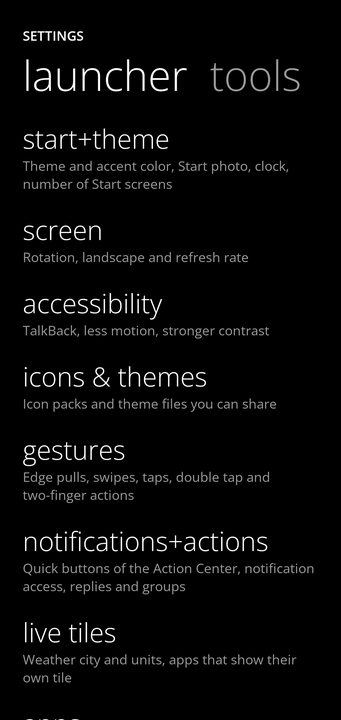
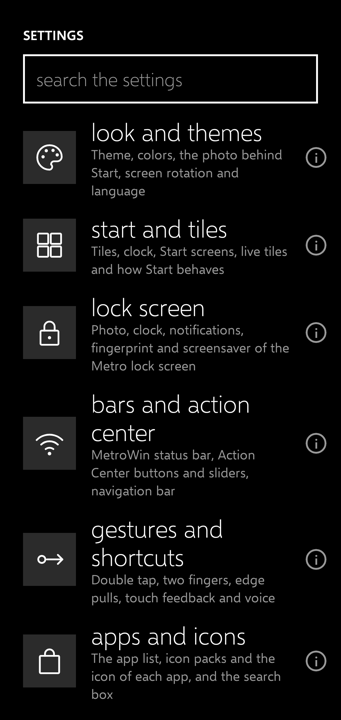
Docs: the settings by category, the 25-page tutorial and the new menu paths
DOCUMENTAZIONE.md describes the thirteen categories, the infobox, "advanced", the map, the tutorial pages and their links, and names the
new paths wherever a feature pointed to an old menu. Both READMEs name the new path to the version and describe the settings and the tutorial.
The picture of the settings home is the new one.

diff --git a/docs/DOCUMENTAZIONE.md b/docs/DOCUMENTAZIONE.md
@@ -85,19 +85,35 @@ grande in minuscolo con il colore d'accento, un quadrato con il glifo). Ogni pag
 funzione ha bisogno di un permesso, lo chiede **lì**, con un pulsante, e dice "consentito" quando c'è: niente viene chiesto in anticipo e
 niente è obbligatorio. Si va avanti con il pulsante o con uno swipe, si esce con "salta", Indietro torna alla pagina prima.
 
-| Pagina | Cosa spiega | Cosa chiede |
-|---|---|---|
-| benvenuto | come si usa il giro | — |
-| rendilo la tua home | perché serve essere l'app Home | **app Home** (dialogo di Android 10+, altrimenti le impostazioni dell'app Home) |
-| la tua schermata start | tocca, tieni premuto, cartelle, tile piccoli affiancati, più schermate, "+" | — |
-| live tile | tile che girano e i loro stili | **foto**, **calendario**, **contatti**, **cronologia chiamate** (uno per uno) |
-| meteo | il tile del meteo e dove si sceglie la città | **posizione** |
-| tutte le tue app | jump list, ricerca, menu, voce | **microfono** |
-| action center | tirata dal bordo, pulsanti, notifiche, risposta e gruppi | **accesso alle notifiche** (pagina di Android) |
-| il tuo aspetto | i tre temi e i colori | — |
-| gesti | bordi, doppio tocco, due dita, Indietro | **servizio di blocco** (accessibilità, facoltativo) |
-| tienilo attivo | perché Android chiude le app e come evitarlo; che stare attivo non costa batteria | **nessuna ottimizzazione della batteria**; e, sui telefoni che hanno un elenco "avvio automatico", di aggiungerci il launcher |
-| rendilo tuo | tutte le sezioni delle impostazioni | — |
+| Pagina | Cosa spiega | Cosa chiede | Impostazione che apre |
+|---|---|---|---|
+| benvenuto | come si usa il giro e come rivederlo | — | — |
+| rendilo la tua home | perché serve essere l'app Home | **app Home** (dialogo di Android 10+, altrimenti le impostazioni dell'app Home) | — |
+| la tua schermata start | tocca, tieni premuto, cartelle, tile piccoli affiancati, "+" | — | start e tile › schermata start |
+| cartelle e gruppi | cartelle (trascina, scelta multipla), gruppi di tile piccoli, titoli dei gruppi | — | start e tile › schermata start |
+| schermate e disposizioni | fino a tre schermate Start, disposizioni con nome e orario, annulla, blocca, Start più in basso | — | start e tile › schermata start |
+| live tile | tile che girano e i loro stili, contenuti delle altre app | **foto**, **calendario**, **contatti**, **cronologia chiamate** (uno per uno) | start e tile › live tile |
+| il tile informativo | le facce (ora, evento, sveglia, foto, batteria, meteo), ordine intelligente, ritmo, fuso, album, più tile | — | — (si cambia dal tile) |
+| meteo | il tile del meteo e dove si sceglie la città | **posizione** | start e tile › live tile |
+| tutte le tue app | jump list, menu, ricerca | — | app e icone › lista app |
+| ricerca e risposte | dove cerca, risposte rapide, operatori, scheda Oggi | — | app e icone › ricerca |
+| icone e icon pack | forma, vetro, icon pack, icona di una sola app | — | app e icone › icone |
+| parla al telefono | comandi vocali, riconoscimento sul telefono, chiamata | **microfono** | gesti e scorciatoie › voce |
+| app dentro il launcher | le mini app, opzioni, colore d'accento | — | mini app |
+| chiamate e due SIM | tastierino, scelta della SIM, segreteria, registro | — | — (si cambia nell'app) |
+| action center | tirata dal bordo, pulsanti, notifiche, risposta e gruppi | **accesso alle notifiche** (pagina di Android) | barre e action center › action center |
+| le tue notifiche | risposta, filtri, banner, app per app, cosa viene letto | — | notifiche |
+| barra di stato e pulsanti | barra di stato e pulsanti MetroWin, barre nei giochi, servizio di accessibilità | — | barre e action center › barra di stato |
+| gesti | bordi, doppio tocco, due dita, Indietro | **servizio di blocco** (accessibilità, facoltativo) | gesti e scorciatoie › gesti |
+| la schermata di blocco Metro | foto, orologio, anteprima, salvaschermo, impronta | — | schermata di blocco |
+| il tuo aspetto | i tre temi e i colori | — | aspetto e temi › tema e colori |
+| più facile da leggere | testo, movimento, contrasto, TalkBack, tastiera | — | accessibilità |
+| tienilo al sicuro | modalità sicura per le banche, app bloccate, angolo bambini, testo dei messaggi sui tile | — | privacy e sicurezza › protezione |
+| backup e sincronizzazione | file o cartella, ripristino, sync cifrata, profili, elenco delle app | — | backup e profili › backup+sync |
+| tienilo attivo | perché Android chiude le app e come evitarlo; che stare attivo non costa batteria | **nessuna ottimizzazione della batteria**; e, sui telefoni che hanno un elenco "avvio automatico", di aggiungerci il launcher | batteria |
+| rendilo tuo | le tredici categorie, la "i", la ricerca, il pivot, "avanzate" | — | la home delle impostazioni |
+
+Sono **25 pagine**, in ordine di tema (primi passi, Start, app e ricerca, mini app, controllo del telefono, aspetto, sicurezza e impostazioni). Con tante pagine i puntini non ci stanno: in basso c'è un contatore ("3 di 25"). Ogni pagina che ha un'impostazione dice **dove sta** (*categoria › pagina*) e ha un pulsante che la apre; il giro aspetta dov'era e **torna alla stessa pagina** quando chiudi le impostazioni. I testi sono nelle sei lingue (en, it, de, es, fr, pt) in `strings.xml` e `strings_settings_info.xml`, e `TutorialTest` controlla che ogni pagina esista in tutte.
 
 | Benvenuto | Live tile e permessi | Tienilo attivo |
 |---|---|---|
@@ -105,7 +121,7 @@ niente è obbligatorio. Si va avanti con il pulsante o con uno swipe, si esce co
 
 Quello che si concede nelle impostazioni di Android (home, notifiche, accessibilità, batteria) viene riletto quando si torna al
 launcher, e il pulsante diventa "consentito". Un permesso che Android non chiede più (negato due volte) fa diventare il pulsante
-"apri impostazioni", che porta alla pagina dell'app. Il giro si rivede da *impostazioni → strumenti → informazioni → rivedi il tutorial* (o cercando "tutorial" nella casella delle impostazioni).
+"apri impostazioni", che porta alla pagina dell'app. Il giro si rivede da *informazioni → mostra di nuovo il tutorial* (o cercando "tutorial" nella casella delle impostazioni).
 
 ## Cosa c'è
 
@@ -174,7 +190,7 @@ tocco li cambierebbe), i contatti, le impostazioni di Android (anche in italiano
   le impostazioni o l'Action Center, andare alla lista app, accendere la torcia, aprire la fotocamera, **parlare**,
   cercare o **aprire le app recenti**. **Suono e vibrazione** al tocco, facoltativi (un click e una vibrazione del launcher, che non dipendono dagli interruttori di Android).
 - **App recenti subito**: l'azione *apri le app recenti* (come gesto, come pulsante tra i toggle dell'Action Center e come
-  **tile delle Impostazioni rapide**, che si aggiunge dalla pagina *gesti* e funziona da qualsiasi app) usa lo stesso servizio
+  **tile delle Impostazioni rapide**, che si aggiunge da *gesti e scorciatoie → gesti* e funziona da qualsiasi app) usa lo stesso servizio
   di accessibilità del blocco schermo (`GLOBAL_ACTION_RECENTS`), che non legge nulla e non chiede eventi: si apre al tocco, senza
   gesto da tenere. **Lo swipe di Android** (su e tieni) **non è del launcher**: lo gestisce il sistema, e con un launcher che non
   è quello del telefono può avere un'attesa che da qui non si può togliere (vedi *Note e limiti*).
@@ -186,7 +202,7 @@ tocco li cambierebbe), i contatti, le impostazioni di Android (anche in italiano
 Quattro pulsanti rapidi a scelta (sugli altri otto si apre il resto), notifiche che si scartano a destra o tutte insieme,
 **risposta rapida** dai messaggi a cui l'app permette di rispondere, **raggruppamento per app** (una riga che si apre; scorrerla via
 le scarta tutte). I pulsanti **Wi-Fi** e **Bluetooth** dicono sotto l'icona la **rete** e il **dispositivo** a cui sei collegato (il Bluetooth: «Cuffie +1» se sono due); con un **tocco lungo** si apre sotto i pulsanti la lista delle **reti Wi-Fi intorno a te** (la tua in cima, con il segnale) o dei **dispositivi Bluetooth**, i connessi prima e poi quelli abbinati ma scollegati; un tocco sul titolo la chiude, *impostazioni* apre il pannello di Android. Android mostra i nomi solo con l'accesso alla **posizione** (Wi-Fi, e la posizione accesa) e ai **dispositivi nelle vicinanze** (Bluetooth, da Android 12): la lista lo dice e ha il pulsante per darlo. Il **banner Metro** compare anche **sopra le altre app** quando il launcher non è sullo schermo, se lo accendi
-(*notifiche+azioni → banner sopra le altre app*, spento di base) e consenti «Mostra sopra altre app»: non sul blocco schermo, non per le notifiche
+(*notifiche → banner sopra le altre app*, spento di base) e consenti «Mostra sopra altre app»: non sul blocco schermo, non per le notifiche
 silenziose, non quando Non disturbare le blocca, e per le app che scegli con l'interruttore *banner* di ognuna. Il banner di Android compare comunque, a meno che accenda *nascondi la notifica di Android* (spento di base): quando compare il banner Metro, la notifica
 di Android viene tolta e resta nell'Action Center finché non la scarti (Android la mostra per un istante e il suono è dell'app; l'app viene avvisata che
 è stata scartata). Il banner si mostra a ogni nuovo messaggio di una chat, non solo al primo, e la riga di una chat è il suo ultimo messaggio.
@@ -196,7 +212,7 @@ dello schermo, su una striscia sottile di 20 dp, apre lo stesso Action Center de
 posticipa) in una finestra sopra l'app in cui sei. Un tocco sulla striscia non fa niente, e il pannello di Android resta raggiungibile da
 subito sotto. La striscia è una finestra che non disegna e non sveglia niente; non c'è sul
 blocco schermo né mentre il pannello è aperto, e funziona anche dentro il launcher (è più bassa della barra di stato). Il pulsante *impostazioni del launcher* apre il launcher. Wi-Fi, Bluetooth, aereo ecc. mostrano lo stato e aprono la schermata di sistema giusta (da Android 10
-un'app non può più accenderli da sola); la torcia si accende davvero. Il pulsante *ordina* in fondo al pannello (e in *azioni → pulsanti rapidi*, trascinando) sposta **qualsiasi** pulsante, non solo i quattro in alto: si tocca un pulsante e poi il posto dove deve andare; i primi quattro sono quelli sempre visibili. Il pulsante **MetroWin** (i riquadri) apre le impostazioni del launcher, **Impostazioni di Android** (un telefono con un ingranaggio, uguale al link in fondo al pannello) quelle del telefono. Un **tocco lungo sulla torcia** apre una barra per scegliere con che intensità si accende (dove il telefono ha più livelli, Android 13 e successivi): l'intensità si ricorda per la volta dopo. Ogni pulsante ha anche un **tocco lungo** suo: Wi-Fi e Bluetooth aprono la lista, gli altri la schermata di Android più vicina (reti, fotocamera, Non disturbare, schermo, posizione…); la rotazione si cambia sul posto con il permesso di modificare le impostazioni, come la luminosità automatica.
+un'app non può più accenderli da sola); la torcia si accende davvero. Il pulsante *ordina* in fondo al pannello (e in *barre e action center → action center → pulsanti rapidi*, trascinando) sposta **qualsiasi** pulsante, non solo i quattro in alto: si tocca un pulsante e poi il posto dove deve andare; i primi quattro sono quelli sempre visibili. Il pulsante **MetroWin** (i riquadri) apre le impostazioni del launcher, **Impostazioni di Android** (un telefono con un ingranaggio, uguale al link in fondo al pannello) quelle del telefono. Un **tocco lungo sulla torcia** apre una barra per scegliere con che intensità si accende (dove il telefono ha più livelli, Android 13 e successivi): l'intensità si ricorda per la volta dopo. Ogni pulsante ha anche un **tocco lungo** suo: Wi-Fi e Bluetooth aprono la lista, gli altri la schermata di Android più vicina (reti, fotocamera, Non disturbare, schermo, posizione…); la rotazione si cambia sul posto con il permesso di modificare le impostazioni, come la luminosità automatica.
 
 ### Voce
 
@@ -458,12 +474,12 @@ Le app di Google si usano dove ci sono (Maps, Calendar, Keep, Lens, News, Financ
 
 **Interfaccia**
 25. **Barra con "…"** nella modifica dei riquadri: il pulsante a tre puntini scrive il nome sotto ogni pulsante (*aggiungi, cartella, piccolo, medio, largo*), come la barra delle app di Windows Phone.
-26. **Titoli panorama**, **spenti di base** (*aspetto → titoli panorama*): un grande titolo (*start*, *app*) dietro le pagine, che si muove a metà velocità e resta indietro mentre le pagine scorrono. Si disegna solo mentre scorri
+26. **Titoli panorama**, **spenti di base** (*aspetto e temi → tema e colori → titoli panorama*): un grande titolo (*start*, *app*) dietro le pagine, che si muove a metà velocità e resta indietro mentre le pagine scorrono. Si disegna solo mentre scorri
     (nessuna ricomposizione), con il movimento ridotto segue le pagine, e con una foto su Start si disegna sopra, molto chiaro, perché la foto lo coprirebbe.
 27. **Pagina chiamata rapida** (menu *aggiungi*): un riquadro che apre una pagina con la griglia dei preferiti; un tocco apre il tastierino con il numero, o chiama subito se hai acceso *chiama subito* e dato il permesso del telefono.
 28. **Hub Persone** (menu *aggiungi*): i preferiti, le ultime chiamate e le notifiche dei messaggi in una pagina.
 29. **Banner delle notifiche** mentre il launcher è sullo schermo, in stile Metro (*azioni*); resta 4,5 secondi, si scarta con uno swipe in su, un tocco apre la notifica. Per un secondo e mezzo dopo che il launcher torna davanti non annuncia nulla (il servizio sta rileggendo ciò che c'è), e annuncia solo notifiche di pochi secondi fa.
-30. **Notifiche app per app** (*azioni → notifiche per app*, con un interruttore generale **per disattivare tutto**): per ogni app si sceglie se compare nell'Action Center, sul blocco schermo, come banner, e un tasto apre la pagina di Android dove si cambia il **suono**.
+30. **Notifiche app per app** (*notifiche → notifiche app per app*, con un interruttore generale **per disattivare tutto**): per ogni app si sceglie se compare nell'Action Center, sul blocco schermo, come banner, e un tasto apre la pagina di Android dove si cambia il **suono**.
     Le scelte restano salvate anche con l'interruttore spento.
 
 **Suono e vibrazione al tocco** (corretti): prima il click era quello di sistema, che dipende dall'interruttore *suoni al tocco* di Android, e la vibrazione da *vibrazione al tocco*; e partiva solo all'apertura di un'app. Ora il launcher ha un suo
@@ -484,7 +500,7 @@ click sintetizzato (`ClickSound`, nel canale dei suoni di interfaccia: segue il 
 **Animazioni nello stile di Windows Phone**
 - **Continuum**: toccando una sezione delle impostazioni il titolo vola su dal punto toccato e le impostazioni scivolano dentro; le liste (impostazioni, menu *aggiungi*, Action Center) entrano a piume, una riga dopo l'altra (`featherIn`); gli interruttori dell'Action Center aperti si ribaltano dall'alto (`flipIn`). Tutto si ferma con *movimento ridotto*.
 - **Selettori a ruota** (giorno, mese, anno; ore e minuti) per il conto alla rovescia e per i promemoria, al posto dei pulsanti più e meno (`LoopingSelector`).
-- **Suoni di sistema Metro**, spenti di base (*azioni → suoni Metro*): un due note per la notifica e un glissando in su e in giù per l'Action Center (che si può spegnere da solo con *suono dell'Action Center*). Sono generati dal codice (come il click), nessun file.
+- **Suoni di sistema Metro**, spenti di base (*notifiche → suoni Metro*): un due note per la notifica e un glissando in su e in giù per l'Action Center (che si può spegnere da solo con *suono dell'Action Center*). Sono generati dal codice (come il click), nessun file.
 
 **Menu *aggiungi* in ordine**: un tocco lungo su uno spazio vuoto apre un menu per tipo di utilità (persone, luoghi, tempo, appunti, informazioni, media, sistema) con una **ricerca rapida** in alto: scrivendo restano solo le voci che corrispondono, anche per parole in italiano o inglese (`AddMenuIndex`).
 
@@ -501,18 +517,18 @@ click sintetizzato (`ClickSound`, nel canale dei suoni di interfaccia: segue il 
 - **Persona viva**: il riquadro di un contatto mostra, girando, l'ultimo messaggio ricevuto da quella persona (dalle notifiche, per nome: funziona con le app che mettono il nome come titolo).
 - **Sito vivo**: il riquadro di un sito mostra il titolo più recente del suo feed RSS/Atom (cercato nella pagina), solo https e solo sullo stesso host. Funziona con **qualunque browser**: *Condividi* → *Fissa su Start* (il launcher compare tra le app di condivisione) fissa la pagina; il tocco la apre nel browser predefinito.
 
-**Meteo**: previsione **ora per ora** (24 ore) nella pagina e su una faccia del riquadro; **più città** (*impostazioni → riquadri live → segui anche questa città*, al massimo 5, lette solo quando apri la pagina); il riquadro Meteo mostra la previsione anche per **qualunque app di meteo** messa su Start (riconosciuta dal nome del pacchetto: `…weather…`, `…meteo…` e le più note). **Secondo fuso orario** sotto la data dell'orologio di Start (*impostazioni → start*).
+**Meteo**: previsione **ora per ora** (24 ore) nella pagina e su una faccia del riquadro; **più città** (*start e tile → live tile → segui anche questa città*, al massimo 5, lette solo quando apri la pagina); il riquadro Meteo mostra la previsione anche per **qualunque app di meteo** messa su Start (riconosciuta dal nome del pacchetto: `…weather…`, `…meteo…` e le più note). **Secondo fuso orario** sotto la data dell'orologio di Start (*impostazioni → start*).
 
-**Ricerca di file per tipo**: *impostazioni → ricerca → file nella ricerca*: si scelgono i tipi (immagini, video, musica, documenti) e per ognuno si dà il permesso; la ricerca cerca per nome nell'indice media del telefono. *Da Android 13 i documenti non sono visibili alle app senza accesso a tutti i file*, quindi **Documenti** trova poco o nulla su un telefono recente: lo dice il testo dell'impostazione.
+**Ricerca di file per tipo**: *app e icone → ricerca → file nella ricerca*: si scelgono i tipi (immagini, video, musica, documenti) e per ognuno si dà il permesso; la ricerca cerca per nome nell'indice media del telefono. *Da Android 13 i documenti non sono visibili alle app senza accesso a tutti i file*, quindi **Documenti** trova poco o nulla su un telefono recente: lo dice il testo dell'impostazione.
 
-**Elenco delle app installate** (*impostazioni → backup*): salva in un file i nomi delle app che hai installato; su un telefono nuovo *Configura da un elenco di app* mostra quelle che mancano e ognuna apre la sua pagina nello store. Il launcher non installa nulla da solo.
+**Elenco delle app installate** (*backup e profili → backup+sync*): salva in un file i nomi delle app che hai installato; su un telefono nuovo *Configura da un elenco di app* mostra quelle che mancano e ognuna apre la sua pagina nello store. Il launcher non installa nulla da solo.
 
 ### Altre funzioni, quinto giro
 
 Ognuna ha il suo interruttore (o la sua scelta) nelle impostazioni, e si trova con la ricerca delle impostazioni.
 
 **Start e riquadri**
-- **Dimensione grande** (4x4, come Windows 10 Mobile) nella barra di modifica e nella freccia di ridimensionamento (*start screen → extra dei riquadri*). Sul riquadro Calendario mostra il mese con i prossimi eventi.
+- **Dimensione grande** (4x4, come Windows 10 Mobile) nella barra di modifica e nella freccia di ridimensionamento (*start e tile → schermata start*). Sul riquadro Calendario mostra il mese con i prossimi eventi.
 - **Titoli di gruppi di riquadri**: il pulsante *titolo* della barra di modifica scrive un titolo sopra il riquadro scelto, che apre un gruppo su una riga di blocchi a sé. Spento, Start torna una griglia semplice (i titoli restano salvati).
 - **Layout di Start con nome** (Casa, Lavoro, Viaggio): si salvano con un tocco e si rimettono con un tocco; prima di mettere un layout, quello che c'è su Start torna nel layout che era attivo. Con *cambia layout a orario* ognuno può prendere il posto di Start a un'ora, una volta al giorno. I riquadri di contatti, note e simili tornano dal layout; **i widget no** (l'id di un widget è di un solo telefono).
 - **Stile collage** (mosaico di foto) per i riquadri Foto e Album.
@@ -547,7 +563,7 @@ Ognuna ha il suo interruttore (o la sua scelta) nelle impostazioni, e si trova c
 
 Anche qui ogni cosa ha il suo interruttore (o la sua scelta) nelle impostazioni, e si trova con la ricerca delle impostazioni.
 
-**Meteo, molto più completo** (*riquadri dinamici → Cosa mostrano le previsioni*, un interruttore per parte; la pagina e il riquadro li seguono):
+**Meteo, molto più completo** (*start e tile → live tile → Cosa mostrano le previsioni*, un interruttore per parte; la pagina e il riquadro li seguono):
 - **Pioggia in arrivo**: una riga in cima dice «pioggia prevista tra 3 h», «dovrebbe smettere di piovere tra 2 h» o «nessuna pioggia nelle prossime 24 ore»; il riquadro prende una faccia con la stessa frase, ma solo se piove o sta per piovere.
 - **Ora per ora**, **grafico della temperatura** (linea e barre della probabilità di pioggia), **dettagli** (percepita, vento, umidità, probabilità di pioggia, alba, tramonto, UV), **raffiche e direzione del vento**, **pressione**, **nuvole**, **visibilità**, **punto di rugiada**, **pioggia prevista oggi** (mm), **ore di sole**, **durata del giorno**, **fase lunare**, **pioggia e vento nei prossimi giorni**.
 - **Qualità dell'aria** (indice europeo con la parola, PM2.5, PM10, ozono, NO₂; anche come faccia del riquadro) e **pollini** (ontano, betulla, graminacee, artemisia, olivo, ambrosia; *solo in Europa*) sono **spenti di base**: accesi, il launcher fa una seconda richiesta a Open-Meteo (`air-quality-api.open-meteo.com`, solo https, stessa regola delle altre). Le altre parti arrivano con la richiesta che c'era già, con qualche campo in più.
@@ -672,54 +688,42 @@ dall'uso: per dirlo serve un confronto sulla stessa giornata di uso, con la stes
 Start ristretto alle app che scegli, senza lista app, Action Center né impostazioni. Per uscire si conferma con il blocco
 schermo. Lo stato "acceso" non viaggia nei backup, così un file non può mai accenderlo su un altro telefono.
 
-## Le impostazioni, sezione per sezione
+## Le impostazioni, categoria per categoria
 
-Si aprono dalla voce *Settings* nella lista app. Sono **quattro pagine di un pivot** (come in Windows Phone) raggruppate per ciò che stai
-cercando: **come appare**, **come si comporta**, **cosa fa con le app** e **gli strumenti**; ogni sezione ha la sua pagina. Tutto è
-salvato come un unico JSON (`SettingsCodec`) che legge anche le versioni vecchie.
+Si aprono dalla voce *Settings* nella lista app. La **radice** elenca **13 categorie**, una riga grande ciascuna con **icona, nome, una riga su cosa contiene e una "i"**
+che apre un riquadro con la spiegazione. Una categoria si apre come un **pivot delle sue pagine** (le intestazioni si toccano e le pagine si scorrono di lato, come in
+Windows Phone): **due livelli e non di più**, e una categoria con una sola pagina non ha pivot. Ogni impostazione sta in **una sola** pagina; quando un'altra pagina ne
+ha bisogno mette un collegamento, non una copia. Indietro torna sempre alla categoria da cui vieni (e dalla ricerca, alla ricerca); la pagina aperta, la ricerca e lo scorrimento
+si ricordano anche se il telefono ruota. Su uno schermo largo (840 dp e oltre) la lista resta a sinistra e la categoria si apre accanto. Tutto è
+salvato come un unico JSON (`SettingsCodec`) che legge anche le versioni vecchie: **le chiavi non sono cambiate**, cambia solo dove si mostrano.
+La mappa completa, impostazione per impostazione, con la pagina vecchia e quella nuova, è in [impostazioni-mappa.md](impostazioni-mappa.md).
 
-In cima c'è una **casella di ricerca**: scrivi cosa cerchi (*nero*, *dimensione testo*, `orologio`, `backup`, anche in inglese o con un
-errore) e vedi le impostazioni, e le sezioni, che corrispondono; un tocco apre la pagina e **ti porta all'impostazione**. Tutte le
-impostazioni sono in un solo elenco, l'**indice** (`ui/settings/SettingsIndex.kt`): ognuna ha un id, la sezione, il nome e le parole che
-la trovano. Un test (`SettingsIndexTest`) disegna ogni pagina e controlla che le impostazioni che ha siano **esattamente** quelle
-dell'indice: una impostazione nuova non indicizzata, o spostata senza aggiornarlo, fa fallire i test.
+In cima c'è una **casella di ricerca**: scrivi cosa cerchi (*nero*, *dimensione testo*, `orologio`, `backup`, anche in inglese o con un errore) e vedi le categorie, le pagine e
+le impostazioni che corrispondono, ciascuna con **dove sta** (*categoria › pagina*); un tocco apre la pagina e **ti porta all'impostazione**. Tutte le impostazioni sono in un
+solo elenco, l'**indice** (`ui/settings/SettingsIndex.kt`): ognuna ha un id, la pagina, il nome e le parole che la trovano. `SettingsIndexTest` disegna ogni pagina e
+controlla che le impostazioni che ha siano **esattamente** quelle dell'indice (nessuna orfana, nessuna doppia), e `SettingsMapTest` controlla che la mappa dica la verità.
 
-**aspetto**
+**Spiegazioni.** Ogni categoria e ogni impostazione dell'indice ha un testo breve (cosa fa, quando serve, cosa costa in batteria, privacy o permessi) in tutte e sei le lingue
+(`strings_settings_info.xml`); la "i" accanto al nome lo apre in un riquadro. `SettingsInfoTest` controlla che le chiavi ci siano in ogni lingua, con gli stessi segnaposto, e che
+ogni impostazione dell'indice ne abbia uno. Le impostazioni che servono a pochi (le icone della barra di stato, Shizuku, il filtro delle notifiche) stanno sotto
+**avanzate**, chiuse finché non le tocchi; una ricerca che porta a una di esse la apre da sé. In fondo a una pagina, **ripristina questa pagina** rimette solo le impostazioni
+di quella pagina (`SectionReset`, ogni chiave in una sola pagina).
 
-| Sezione | Cosa c'è |
-|---|---|
-| start+theme | **tema** (Classic, Modern Glass, Modern Droid) e, per Droid, i colori dello sfondo; scuro / chiaro / come il telefono / a orario / **dal tramonto all'alba**; nero OLED; colore d'accento (20), **colore tuo con i cursori** o dalla foto; foto di Start, **inquadratura** e parallasse |
-| schermata start | **riquadri** (più riquadri, nomi, spaziatura, numero di schermate Start); **orologio e data** (ore, sveglia, settimana, tocchi); barra di stato nascosta; **ripristina Start** |
-| icone e temi | icon pack; esporta e importa un file tema |
-| accessibilità | **dimensione, peso e carattere del testo**; riduci il movimento; alto contrasto; TalkBack e scorciatoia alle impostazioni di Android |
-| blocco schermo | anteprima, foto (anche nel blocco schermo di Android), cosa mostrare (anche **meteo** e **prossimo evento**), impostazioni del salvaschermo |
-
-**uso**
-
-| Sezione | Cosa c'è |
-|---|---|
-| schermo+lingua | rotazione (verticale, segui il telefono, orizzontale); animazione di apertura; massima frequenza di aggiornamento (120 Hz, tolta mentre si risparmia batteria); **lingua del launcher** |
-| gesti | tirata dal bordo, indietro dal bordo, doppio tocco, **Home premuto due volte**, due dita in giù e in su (*app recenti*, screenshot, menu di spegnimento, schermo diviso, pannelli di Android, **un'app a scelta**), app recenti, servizio di accessibilità, suono e vibrazione al tocco |
-| notifiche+azioni | **Action Center**: i quattro pulsanti, **volume, luminosità, suoneria e torcia** nel pannello; **notifiche**: accesso, mostrale sui riquadri, risposta rapida, raggruppamento |
-| voce | **icona dell'assistente** su Start (un microfono in cima, oltre al gesto); microfono nella ricerca; riconoscimento sul telefono; *chiama subito*; prova; cosa si può dire |
-| batteria | risparmio energetico (automatico, sempre, mai) e cosa cambia; cosa il launcher non fa quando non è sullo schermo |
-
-**app**
-
-| Sezione | Cosa c'è |
-|---|---|
-| lista app | gruppi in cima alla lista (più usate, nuove), filtro per categoria, **elenco compatto**; app nascoste, rinominate e bloccate |
-| ricerca | **dove cerca** (contatti, impostazioni di Android, **impostazioni del launcher**, **ciò che c'è su Start**, **calendario**); **web** e motore; **risposte** e **valute**; **cronologia** delle ricerche |
-| live tile | città del meteo (ricerca o posizione) e gradi; **contenuti dal vivo delle altre app** (interruttore, accesso alle notifiche, cosa mostrare, app per app) e **cosa legge ora il launcher**; lascia pubblicare i tile alle app, ed elenco di chi l'ha fatto |
-| profili | lavoro e spazio privato: pausa e riattiva; mostra le loro app |
-
-**strumenti**
-
-| Sezione | Cosa c'è |
-|---|---|
-| backup+sync | file o cartella, ogni quanto, ripristina; sincronizzazione con passphrase; esporta e importa |
-| angolo bambini | app e avvio |
-| informazioni | versione e dettagli del launcher; **aggiornamenti da GitHub** (cerca adesso, scarica e installa, controllo ogni 12 ore); rivedi il tutorial; crediti |
+| Categoria | Pagine | Cosa c'è |
+|---|---|---|
+| aspetto e temi | tema e colori; schermo+lingua | **tema** (Classic, Modern Glass, Modern Droid), scuro / chiaro / a orario / **dal tramonto all'alba**, nero OLED, colore d'accento (20 o tuo), foto di Start, **inquadratura**, parallasse, titoli panorama, **file tema**; rotazione, animazione di apertura, margini, 120 Hz, **lingua** |
+| start e tile | schermata start; orologio e barre; comportamento di start; live tile | **riquadri** (colonne, nomi, spaziatura, modalità libera, schermate), disposizioni con nome e orario, **ripristina Start**; **orologio e data**, barra dell'app e delle azioni; ritorno in cima, blocco, annulla, obiettivo passi, protezione OLED; meteo, **contenuti delle altre app**, foto, finanza, transizioni |
+| schermata di blocco | blocco schermo | anteprima, foto, cosa mostrare, stato rapido, impronta, salvaschermo, musica |
+| barre e action center | barra di stato; action center; barra di navigazione | barra di stato MetroWin (anche sopra le app, icone una per una, nascondi su Start); **Action Center** acceso o spento, sopra le altre app, pulsanti rapidi, cursori, torcia, pannello volume; **pulsanti Windows Phone**, distanza, barre nei giochi |
+| gesti e scorciatoie | gesti; tocco e sensazione; voce | doppio tocco, **Home due volte**, due dita, tirate e indietro dal bordo, app recenti, servizio di accessibilità; suono, vibrazione, velocità, inclinazione; microfono, riconoscimento sul telefono, *chiama subito* |
+| app e icone | lista app; icone; ricerca | gruppi in cima, elenco compatto, categorie, app nascoste e rinominate; forma, vetro, icon pack, **icona di una singola app**; dove cerca, risposte, valute, operatori, file, scheda Oggi, cronologia |
+| mini app | mini app | gli interruttori di Messaggi, Posta, Calendario, Calcolatrice, Data Sense e Registratore (gli stessi del menu di ogni app) |
+| notifiche | notifiche | accesso, banner (anche sopra le app), risposta, raggruppamento, silenzia, priorità, filtro per parole, suoni, nascondi quella di Android, app per app |
+| privacy e sicurezza | protezione; angolo bambini | **app delle banche** (modalità sicura), app bloccate dall'impronta; avvio e app dell'angolo bambini |
+| batteria | batteria | risparmio energetico (automatico, sempre, mai) |
+| accessibilità | accessibilità | dimensione, peso e carattere del testo, meno movimento, più contrasto, TalkBack |
+| backup e profili | backup+sync; profili | file o cartella, ogni quanto, copie, ripristino, sincronizzazione cifrata, elenco delle app; profilo di lavoro e spazio privato |
+| informazioni | informazioni; segnalazione bug; altri progetti | versione, **aggiornamenti da GitHub**, telefono, **rivedi il tutorial**, crediti; segnalazione con il log; altri progetti dell'autore |
 
 ## Cosa non si può fare da un launcher, e come l'ho aggirato
 
@@ -803,7 +807,7 @@ val answer = context.contentResolver.call(tiles, "publish", null, extras)
 context.contentResolver.call(tiles, "clear", null, null)      // toglie il testo
 ```
 
-Il testo compare sul riquadro (che gira per mostrarlo), il numero come contatore. L'utente può spegnere la cosa (*live tile → tile
+Il testo compare sul riquadro (che gira per mostrarlo), il numero come contatore. L'utente può spegnere la cosa (*start e tile → live tile → tile
 pubblicati dalle app*) e cancellare quello di un'app. Il permesso è di livello `normal`: Android lo concede all'installazione, ma
 solo se il launcher c'era già.
 

diff --git a/README.it.md b/README.it.md
@@ -118,6 +118,11 @@ Ognuno è facoltativo e legge i dati solo finché è fissato su Start.
 - **Backup** del layout in un file o in una cartella (qualsiasi cartella che Android sa aprire), a mano o ogni 1, 7 o 30 giorni, e **sincronizzazione cifrata tra telefoni** attraverso quella cartella (AES-256-GCM, chiave dalla tua passphrase con PBKDF2-SHA256).
 - **Profilo di lavoro** e **spazio privato** (Android 15), **Angolo bambini**, e accessibilità: TalkBack su ogni riquadro e riga, dimensione del testo, meno movimento, contrasto più forte.
 
+### Impostazioni e tutorial
+- **Tredici categorie** (aspetto e temi, start e tile, schermata di blocco, barre e action center, gesti e scorciatoie, app e icone, mini app, notifiche, privacy e sicurezza, batteria, accessibilità, backup e profili, informazioni), ciascuna un pivot delle sue pagine: due livelli, mai di più. Ogni impostazione sta in un solo posto, e la ricerca dice dov'è.
+- Una **"i" accanto a ogni categoria e impostazione** spiega cosa fa, quando serve e quanto costa in batteria, privacy o permessi, in sei lingue (inglese, italiano, tedesco, spagnolo, francese, portoghese).
+- Un **tutorial di 25 pagine brevi**, in ordine di tema, con un pulsante in ogni pagina che apre la sua impostazione. La mappa di ogni impostazione, pagina vecchia e nuova, è in [docs/impostazioni-mappa.md](docs/impostazioni-mappa.md).
+
 ### Per chi sviluppa un'app: un riquadro tuo su Start
 
 Se sviluppi un'app, puoi mostrare sul suo riquadro di Start un titolo, un breve testo e un contatore, come i live tile di
@@ -157,7 +162,7 @@ La documentazione completa, in italiano, descrive ogni funzione, ogni impostazio
 ## Contribuire
 
 Segnalazioni e idee sono benvenute nel [tracker delle segnalazioni](https://github.com/developerkenshi-coder/MetroWinLauncher/issues), in italiano o in inglese.
-Per un errore, indica il telefono, la versione di Android e la versione del launcher (*impostazioni → strumenti → informazioni*). Le pull request sono benvenute; per le cose grandi apri prima una segnalazione.
+Per un errore, indica il telefono, la versione di Android e la versione del launcher (*impostazioni → informazioni*). Le pull request sono benvenute; per le cose grandi apri prima una segnalazione.
 
 ## Licenza e crediti
 

diff --git a/README.md b/README.md
@@ -117,6 +117,11 @@ Every one is optional and reads data only while it is pinned to Start.
 - **Backup** of the layout to a file or a folder (any folder Android can open), by hand or every 1, 7 or 30 days, and **encrypted sync between phones** through that folder (AES-256-GCM, key from your passphrase with PBKDF2-SHA256).
 - **Work profile** and **private space** (Android 15), **Kids Corner**, and accessibility: TalkBack for every tile and row, text size, reduced motion, stronger contrast.
 
+### Settings and tutorial
+- **Thirteen categories** (look and themes, start and tiles, lock screen, bars and Action Center, gestures and shortcuts, apps and icons, mini apps, notifications, privacy and security, battery, accessibility, backup and profiles, about), each a pivot of its pages: two levels, never more. Every setting is in one place only, and the search tells you where.
+- An **"i" next to every category and setting** explains what it does, when it matters and what it costs in battery, privacy or permissions, in six languages (English, Italian, German, Spanish, French, Portuguese).
+- A **tutorial of 25 short pages**, in order of theme, with a button on each page that opens its setting. The map of every setting, old page and new, is in [docs/impostazioni-mappa.md](docs/impostazioni-mappa.md).
+
 ### For app developers: your own tile on Start
 
 If you develop an app, it can show a title, a short text and a counter on its own Start tile, like the live tiles of
@@ -155,7 +160,7 @@ The complete documentation, in Italian, covers every feature, every setting, the
 ## Contributing
 
 Bug reports and ideas are welcome in the [issue tracker](https://github.com/developerkenshi-coder/MetroWinLauncher/issues), in English or Italian.
-For a bug, tell us the phone, the Android version and the launcher version (*settings → tools → about*). Pull requests are welcome; please open an issue first for anything big.
+For a bug, tell us the phone, the Android version and the launcher version (*settings → about*). Pull requests are welcome; please open an issue first for anything big.
 
 ## License and credits
 
